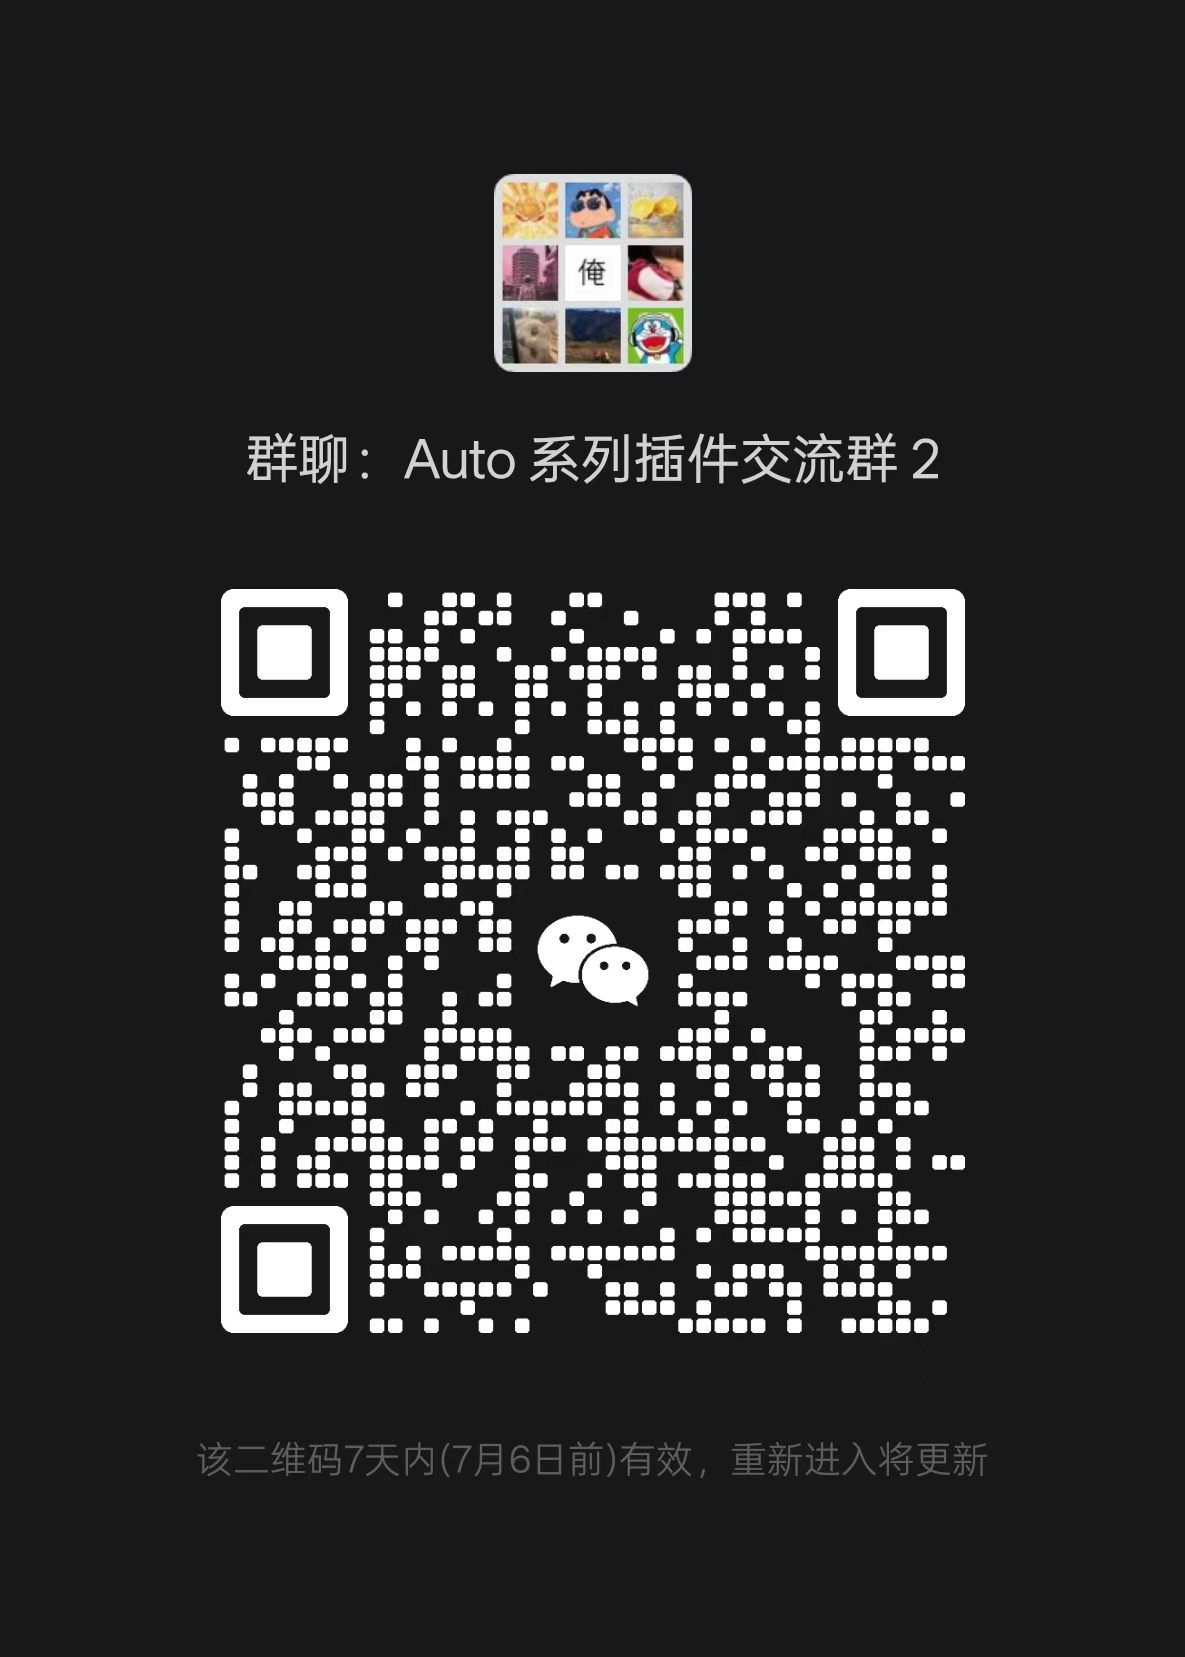
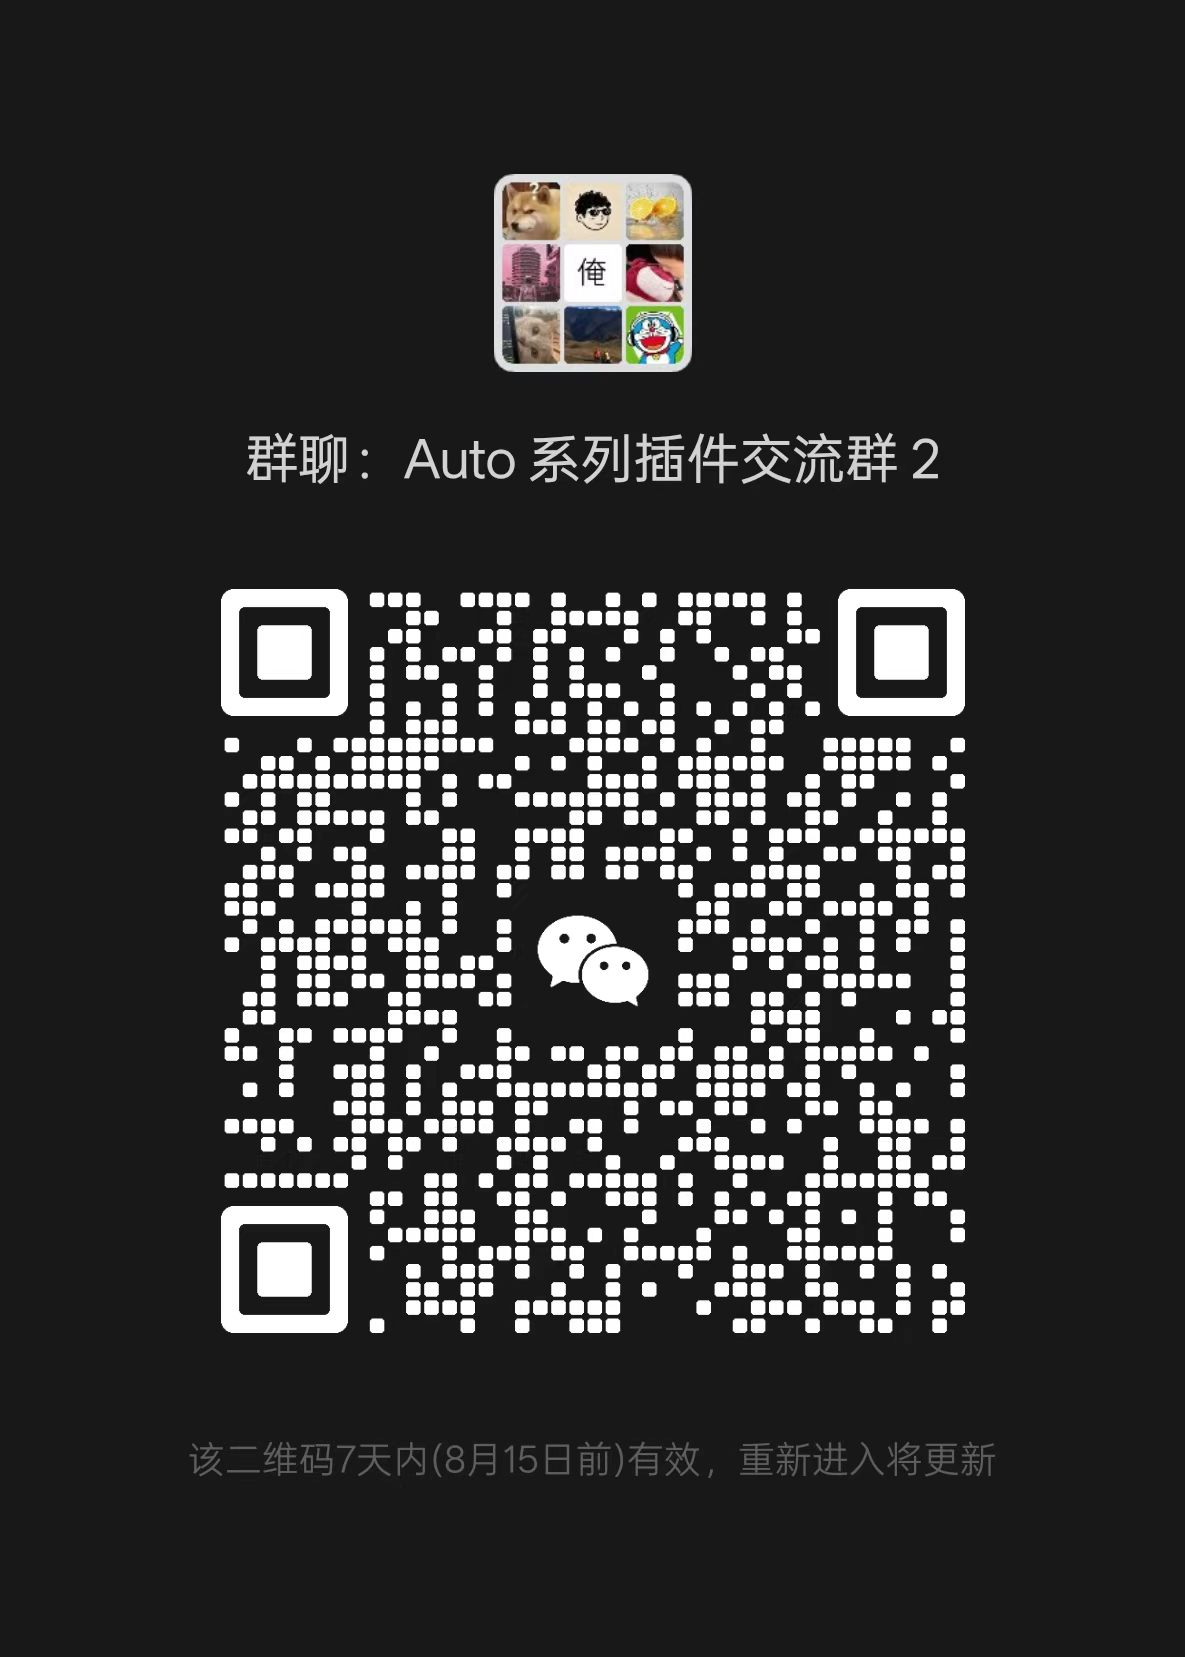
docs: 更新二维码
* docs: 更新群二维码

* docs: 更新二维码

diff --git a/docs/question.md b/docs/question.md
@@ -21,6 +21,12 @@
 
 全屏的元素无法修改其宽高、缩放等样式，在使用全屏 API 时，不要选择 autofit.js 接管的元素，而是选择其上级元素。
 
+## 堡垒 AI
+
+[欢迎使用堡垒 AI，Codex 低至 x0.02，支持 Fable 5，邀请返利 12%！](https://ourbastion.com/register?aff=4A3VM2B7KSEM)
+
+<img src="./ai.jpg" alt="堡垒 AI" width="200">
+
 ## 还有问题？
 
 欢迎来到诺克萨斯
